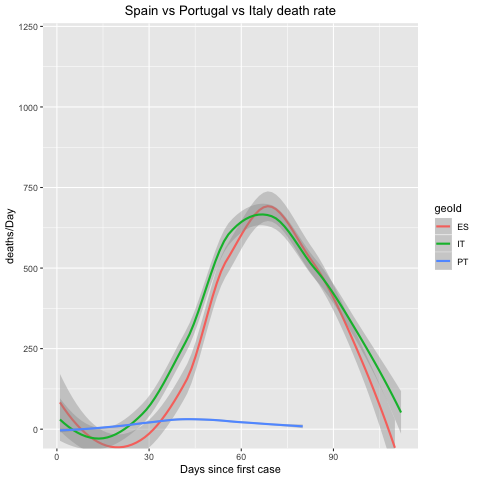
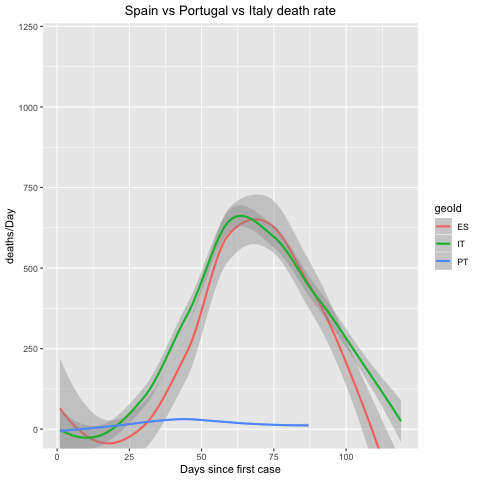
daily commit

diff --git a/README.md b/README.md
@@ -1,4 +1,4 @@
-Updated: 2020-05-25
+Updated: 2020-05-28
 
 Synopsis
 --------
@@ -30,13 +30,13 @@ formats. I choose the JSON format.
     data <- as_tibble(dataRaw$records)
     str(data)
 
-    ## Classes 'tbl_df', 'tbl' and 'data.frame':    19248 obs. of  11 variables:
-    ##  $ dateRep                : chr  "25/05/2020" "24/05/2020" "23/05/2020" "22/05/2020" ...
-    ##  $ day                    : chr  "25" "24" "23" "22" ...
+    ## Classes 'tbl_df', 'tbl' and 'data.frame':    19875 obs. of  11 variables:
+    ##  $ dateRep                : chr  "28/05/2020" "27/05/2020" "26/05/2020" "25/05/2020" ...
+    ##  $ day                    : chr  "28" "27" "26" "25" ...
     ##  $ month                  : chr  "5" "5" "5" "5" ...
     ##  $ year                   : chr  "2020" "2020" "2020" "2020" ...
-    ##  $ cases                  : chr  "584" "782" "540" "531" ...
-    ##  $ deaths                 : chr  "2" "11" "12" "6" ...
+    ##  $ cases                  : chr  "625" "658" "591" "584" ...
+    ##  $ deaths                 : chr  "7" "1" "1" "2" ...
     ##  $ countriesAndTerritories: chr  "Afghanistan" "Afghanistan" "Afghanistan" "Afghanistan" ...
     ##  $ geoId                  : chr  "AF" "AF" "AF" "AF" ...
     ##  $ countryterritoryCode   : chr  "AFG" "AFG" "AFG" "AFG" ...
@@ -58,13 +58,13 @@ numeric values and date values into their respective formats.
     data$popData2018 <- as.numeric(data$popData2018)
     str(data)
 
-    ## Classes 'tbl_df', 'tbl' and 'data.frame':    19248 obs. of  11 variables:
-    ##  $ dateRep                : Date, format: "2020-05-25" "2020-05-24" ...
-    ##  $ day                    : num  25 24 23 22 21 20 19 18 17 16 ...
+    ## Classes 'tbl_df', 'tbl' and 'data.frame':    19875 obs. of  11 variables:
+    ##  $ dateRep                : Date, format: "2020-05-28" "2020-05-27" ...
+    ##  $ day                    : num  28 27 26 25 24 23 22 21 20 19 ...
     ##  $ month                  : num  5 5 5 5 5 5 5 5 5 5 ...
     ##  $ year                   : num  2020 2020 2020 2020 2020 2020 2020 2020 2020 2020 ...
-    ##  $ cases                  : num  584 782 540 531 492 ...
-    ##  $ deaths                 : num  2 11 12 6 9 5 4 1 0 32 ...
+    ##  $ cases                  : num  625 658 591 584 782 540 531 492 581 408 ...
+    ##  $ deaths                 : num  7 1 1 2 11 12 6 9 5 4 ...
     ##  $ countriesAndTerritories: chr  "Afghanistan" "Afghanistan" "Afghanistan" "Afghanistan" ...
     ##  $ geoId                  : chr  "AF" "AF" "AF" "AF" ...
     ##  $ countryterritoryCode   : chr  "AFG" "AFG" "AFG" "AFG" ...
@@ -78,32 +78,32 @@ Let’s check out a summary of our data:
 
     ##     dateRep                day            month             year     
     ##  Min.   :2019-12-31   Min.   : 1.00   Min.   : 1.000   Min.   :2019  
-    ##  1st Qu.:2020-03-12   1st Qu.: 9.00   1st Qu.: 3.000   1st Qu.:2020  
-    ##  Median :2020-04-09   Median :16.00   Median : 4.000   Median :2020  
-    ##  Mean   :2020-04-01   Mean   :15.79   Mean   : 3.574   Mean   :2020  
-    ##  3rd Qu.:2020-05-02   3rd Qu.:23.00   3rd Qu.: 5.000   3rd Qu.:2020  
-    ##  Max.   :2020-05-25   Max.   :31.00   Max.   :12.000   Max.   :2020  
+    ##  1st Qu.:2020-03-14   1st Qu.: 9.00   1st Qu.: 3.000   1st Qu.:2020  
+    ##  Median :2020-04-11   Median :17.00   Median : 4.000   Median :2020  
+    ##  Mean   :2020-04-03   Mean   :16.14   Mean   : 3.619   Mean   :2020  
+    ##  3rd Qu.:2020-05-05   3rd Qu.:24.00   3rd Qu.: 5.000   3rd Qu.:2020  
+    ##  Max.   :2020-05-28   Max.   :31.00   Max.   :12.000   Max.   :2020  
     ##                                                                      
-    ##      cases             deaths        countriesAndTerritories    geoId          
-    ##  Min.   :-2461.0   Min.   :   0.00   Length:19248            Length:19248      
-    ##  1st Qu.:    0.0   1st Qu.:   0.00   Class :character        Class :character  
-    ##  Median :    2.0   Median :   0.00   Mode  :character        Mode  :character  
-    ##  Mean   :  279.1   Mean   :  17.91                                             
-    ##  3rd Qu.:   44.0   3rd Qu.:   1.00                                             
-    ##  Max.   :48529.0   Max.   :4928.00                                             
-    ##                                                                                
-    ##  countryterritoryCode  popData2018        continentExp      
-    ##  Length:19248         Min.   :1.000e+03   Length:19248      
-    ##  Class :character     1st Qu.:2.119e+06   Class :character  
-    ##  Mode  :character     Median :9.631e+06   Mode  :character  
-    ##                       Mean   :5.053e+07                     
-    ##                       3rd Qu.:3.370e+07                     
-    ##                       Max.   :1.393e+09                     
-    ##                       NA's   :261
+    ##      cases             deaths         countriesAndTerritories
+    ##  Min.   :-2461.0   Min.   :-1918.00   Length:19875           
+    ##  1st Qu.:    0.0   1st Qu.:    0.00   Class :character       
+    ##  Median :    2.0   Median :    0.00   Mode  :character       
+    ##  Mean   :  284.6   Mean   :   17.88                          
+    ##  3rd Qu.:   45.0   3rd Qu.:    1.00                          
+    ##  Max.   :48529.0   Max.   : 4928.00                          
+    ##                                                              
+    ##     geoId           countryterritoryCode  popData2018        continentExp      
+    ##  Length:19875       Length:19875         Min.   :1.000e+03   Length:19875      
+    ##  Class :character   Class :character     1st Qu.:2.119e+06   Class :character  
+    ##  Mode  :character   Mode  :character     Median :9.588e+06   Mode  :character  
+    ##                                          Mean   :5.011e+07                     
+    ##                                          3rd Qu.:3.370e+07                     
+    ##                                          Max.   :1.393e+09                     
+    ##                                          NA's   :276
 
 Ok, something awkward is going on. The **new cases** and **deaths**
 variable have negative values, because, as one may notice, the minimum
-value is **-2461** and **0** for each. There shouldn’t be negative
+value is **-2461** and **-1918** for each. There shouldn’t be negative
 values, the only explanation available is mistakes in counts that are
 then corrected this way. This is possible the wrongest way to correct
 mistakes because one doesn’t know for sure the real values of the
@@ -156,49 +156,49 @@ absolute numbers with percentages related to country population:
 <tbody>
 <tr class="odd">
 <td style="text-align: left;">United_States_of_America</td>
-<td style="text-align: right;">1643238</td>
+<td style="text-align: right;">1699933</td>
 </tr>
 <tr class="even">
 <td style="text-align: left;">Brazil</td>
-<td style="text-align: right;">363211</td>
+<td style="text-align: right;">411821</td>
 </tr>
 <tr class="odd">
 <td style="text-align: left;">Russia</td>
-<td style="text-align: right;">344481</td>
+<td style="text-align: right;">370680</td>
 </tr>
 <tr class="even">
 <td style="text-align: left;">United_Kingdom</td>
-<td style="text-align: right;">259559</td>
+<td style="text-align: right;">267240</td>
 </tr>
 <tr class="odd">
 <td style="text-align: left;">Spain</td>
-<td style="text-align: right;">235772</td>
+<td style="text-align: right;">236769</td>
 </tr>
 <tr class="even">
 <td style="text-align: left;">Italy</td>
-<td style="text-align: right;">229858</td>
+<td style="text-align: right;">231139</td>
 </tr>
 <tr class="odd">
 <td style="text-align: left;">Germany</td>
-<td style="text-align: right;">178570</td>
+<td style="text-align: right;">179717</td>
 </tr>
 <tr class="even">
 <td style="text-align: left;">Turkey</td>
-<td style="text-align: right;">156827</td>
+<td style="text-align: right;">158762</td>
 </tr>
 <tr class="odd">
-<td style="text-align: left;">France</td>
-<td style="text-align: right;">144921</td>
+<td style="text-align: left;">India</td>
+<td style="text-align: right;">158333</td>
 </tr>
 <tr class="even">
-<td style="text-align: left;">India</td>
-<td style="text-align: right;">138845</td>
+<td style="text-align: left;">France</td>
+<td style="text-align: right;">145746</td>
 </tr>
 </tbody>
 </table>
 
 The above table reflects the ranked 10 worst countries in COVID-19
-diagnosed cases. Portugal is ranked **28**, with **30623** total cases.
+diagnosed cases. Portugal is ranked **28**, with **31292** total cases.
 
     DeathsRank <- data %>% 
             group_by(countriesAndTerritories) %>%
@@ -222,49 +222,49 @@ diagnosed cases. Portugal is ranked **28**, with **30623** total cases.
 <tbody>
 <tr class="odd">
 <td style="text-align: left;">United_States_of_America</td>
-<td style="text-align: right;">97720</td>
+<td style="text-align: right;">100442</td>
 </tr>
 <tr class="even">
 <td style="text-align: left;">United_Kingdom</td>
-<td style="text-align: right;">36793</td>
+<td style="text-align: right;">37460</td>
 </tr>
 <tr class="odd">
 <td style="text-align: left;">Italy</td>
-<td style="text-align: right;">32785</td>
+<td style="text-align: right;">33072</td>
 </tr>
 <tr class="even">
-<td style="text-align: left;">Spain</td>
-<td style="text-align: right;">28752</td>
+<td style="text-align: left;">France</td>
+<td style="text-align: right;">28596</td>
 </tr>
 <tr class="odd">
-<td style="text-align: left;">France</td>
-<td style="text-align: right;">28367</td>
+<td style="text-align: left;">Spain</td>
+<td style="text-align: right;">27118</td>
 </tr>
 <tr class="even">
 <td style="text-align: left;">Brazil</td>
-<td style="text-align: right;">22666</td>
+<td style="text-align: right;">25598</td>
 </tr>
 <tr class="odd">
 <td style="text-align: left;">Belgium</td>
-<td style="text-align: right;">9280</td>
-</tr>
-<tr class="even">
-<td style="text-align: left;">Germany</td>
-<td style="text-align: right;">8257</td>
-</tr>
-<tr class="odd">
-<td style="text-align: left;">Iran</td>
-<td style="text-align: right;">7417</td>
+<td style="text-align: right;">9364</td>
 </tr>
 <tr class="even">
 <td style="text-align: left;">Mexico</td>
-<td style="text-align: right;">7394</td>
+<td style="text-align: right;">8597</td>
+</tr>
+<tr class="odd">
+<td style="text-align: left;">Germany</td>
+<td style="text-align: right;">8411</td>
+</tr>
+<tr class="even">
+<td style="text-align: left;">Iran</td>
+<td style="text-align: right;">7564</td>
 </tr>
 </tbody>
 </table>
 
 The above table reflects the ranked 10 worst countries in COVID-19
-deaths. Portugal is ranked **23**, with **1316** total deaths.
+deaths. Portugal is ranked **23**, with **1356** total deaths.
 
 Let us now check the same rates in percentage.
 
@@ -304,15 +304,15 @@ Let us now check the same rates in percentage.
 </tr>
 <tr class="even">
 <td style="text-align: left;">San_Marino</td>
-<td style="text-align: right;">665</td>
+<td style="text-align: right;">667</td>
 <td style="text-align: right;">33785</td>
-<td style="text-align: right;">1.9683291</td>
+<td style="text-align: right;">1.9742489</td>
 </tr>
 <tr class="odd">
 <td style="text-align: left;">Qatar</td>
-<td style="text-align: right;">43714</td>
+<td style="text-align: right;">48947</td>
 <td style="text-align: right;">2781677</td>
-<td style="text-align: right;">1.5714981</td>
+<td style="text-align: right;">1.7596220</td>
 </tr>
 <tr class="even">
 <td style="text-align: left;">Holy_See</td>
@@ -328,33 +328,33 @@ Let us now check the same rates in percentage.
 </tr>
 <tr class="even">
 <td style="text-align: left;">Luxembourg</td>
-<td style="text-align: right;">3992</td>
+<td style="text-align: right;">4001</td>
 <td style="text-align: right;">607728</td>
-<td style="text-align: right;">0.6568728</td>
+<td style="text-align: right;">0.6583537</td>
 </tr>
 <tr class="odd">
 <td style="text-align: left;">Bahrain</td>
-<td style="text-align: right;">9138</td>
+<td style="text-align: right;">9633</td>
 <td style="text-align: right;">1569439</td>
-<td style="text-align: right;">0.5822463</td>
+<td style="text-align: right;">0.6137862</td>
 </tr>
 <tr class="even">
 <td style="text-align: left;">Singapore</td>
-<td style="text-align: right;">31616</td>
+<td style="text-align: right;">32876</td>
 <td style="text-align: right;">5638676</td>
-<td style="text-align: right;">0.5606990</td>
+<td style="text-align: right;">0.5830447</td>
 </tr>
 <tr class="odd">
 <td style="text-align: left;">Kuwait</td>
-<td style="text-align: right;">21302</td>
+<td style="text-align: right;">23267</td>
 <td style="text-align: right;">4137309</td>
-<td style="text-align: right;">0.5148757</td>
+<td style="text-align: right;">0.5623704</td>
 </tr>
 <tr class="even">
-<td style="text-align: left;">Iceland</td>
-<td style="text-align: right;">1804</td>
-<td style="text-align: right;">353574</td>
-<td style="text-align: right;">0.5102185</td>
+<td style="text-align: left;">United_States_of_America</td>
+<td style="text-align: right;">1699933</td>
+<td style="text-align: right;">327167434</td>
+<td style="text-align: right;">0.5195911</td>
 </tr>
 </tbody>
 </table>
@@ -385,9 +385,9 @@ Let us now check the same rates in percentage.
 </tr>
 <tr class="odd">
 <td style="text-align: left;">Belgium</td>
-<td style="text-align: right;">9280</td>
+<td style="text-align: right;">9364</td>
 <td style="text-align: right;">11422068</td>
-<td style="text-align: right;">0.0812462</td>
+<td style="text-align: right;">0.0819817</td>
 </tr>
 <tr class="even">
 <td style="text-align: left;">Andorra</td>
@@ -397,33 +397,33 @@ Let us now check the same rates in percentage.
 </tr>
 <tr class="odd">
 <td style="text-align: left;">Spain</td>
-<td style="text-align: right;">28752</td>
+<td style="text-align: right;">27118</td>
 <td style="text-align: right;">46723749</td>
-<td style="text-align: right;">0.0615362</td>
+<td style="text-align: right;">0.0580390</td>
 </tr>
 <tr class="even">
 <td style="text-align: left;">United_Kingdom</td>
-<td style="text-align: right;">36793</td>
+<td style="text-align: right;">37460</td>
 <td style="text-align: right;">66488991</td>
-<td style="text-align: right;">0.0553370</td>
+<td style="text-align: right;">0.0563402</td>
 </tr>
 <tr class="odd">
 <td style="text-align: left;">Italy</td>
-<td style="text-align: right;">32785</td>
+<td style="text-align: right;">33072</td>
 <td style="text-align: right;">60431283</td>
-<td style="text-align: right;">0.0542517</td>
+<td style="text-align: right;">0.0547266</td>
 </tr>
 <tr class="even">
 <td style="text-align: left;">France</td>
-<td style="text-align: right;">28367</td>
+<td style="text-align: right;">28596</td>
 <td style="text-align: right;">66987244</td>
-<td style="text-align: right;">0.0423469</td>
+<td style="text-align: right;">0.0426887</td>
 </tr>
 <tr class="odd">
 <td style="text-align: left;">Sweden</td>
-<td style="text-align: right;">3998</td>
+<td style="text-align: right;">4220</td>
 <td style="text-align: right;">10183175</td>
-<td style="text-align: right;">0.0392608</td>
+<td style="text-align: right;">0.0414409</td>
 </tr>
 <tr class="even">
 <td style="text-align: left;">Sint_Maarten</td>
@@ -536,19 +536,17 @@ effect.
 
 As we can observe from the graphs, the worst seems to have passed. The
 peak for new cases detected was in **2020-04-06** and the peak for
-deaths in Portugal was in **2020-04-14, 2020-04-15, 2020-04-16,
-2020-04-17, 2020-04-18, 2020-04-19, 2020-04-20, 2020-04-21, 2020-04-22,
-2020-04-23, 2020-04-24**.
+deaths in Portugal was in **2020-04-16, 2020-04-17, 2020-04-18,
+2020-04-19, 2020-04-20, 2020-04-21**.
 
 Conclusions
 -----------
 
--   Cases: Portugal is ranked **28** in 207 countries, with **30623**
+-   Cases: Portugal is ranked **28** in 207 countries, with **31292**
     total cases. Portugal had the peak of cases in **2020-04-06**.  
--   Deaths: Portugal is ranked **23** in 207 countries, with **1316**
-    total deaths. Portugal had the peak of deaths in **2020-04-14,
-    2020-04-15, 2020-04-16, 2020-04-17, 2020-04-18, 2020-04-19,
-    2020-04-20, 2020-04-21, 2020-04-22, 2020-04-23, 2020-04-24**.
+-   Deaths: Portugal is ranked **23** in 207 countries, with **1356**
+    total deaths. Portugal had the peak of deaths in **2020-04-16,
+    2020-04-17, 2020-04-18, 2020-04-19, 2020-04-20, 2020-04-21**.
 
 The fact that the “peaks” have passed for the cases and deaths in
 Portugal doesn’t mean that the problem is over. For example, the peaks
